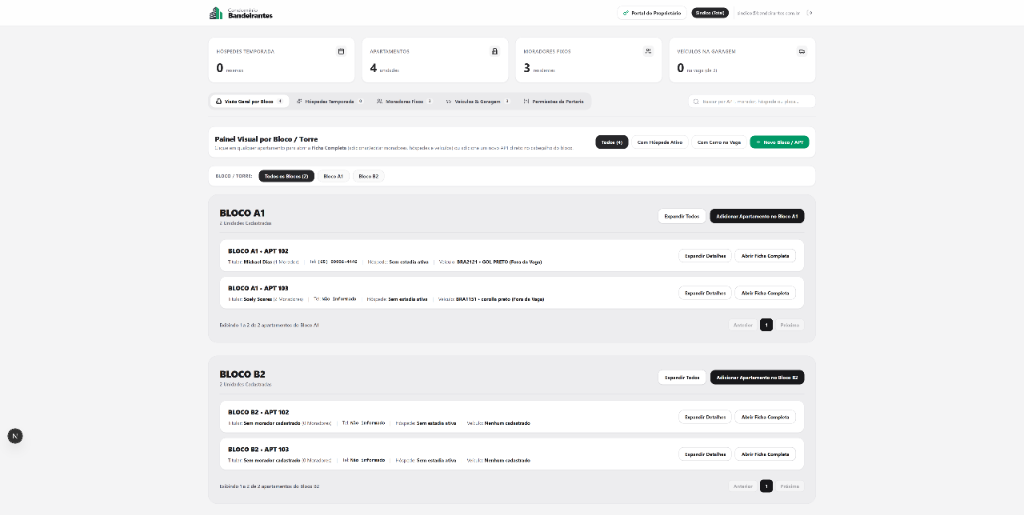
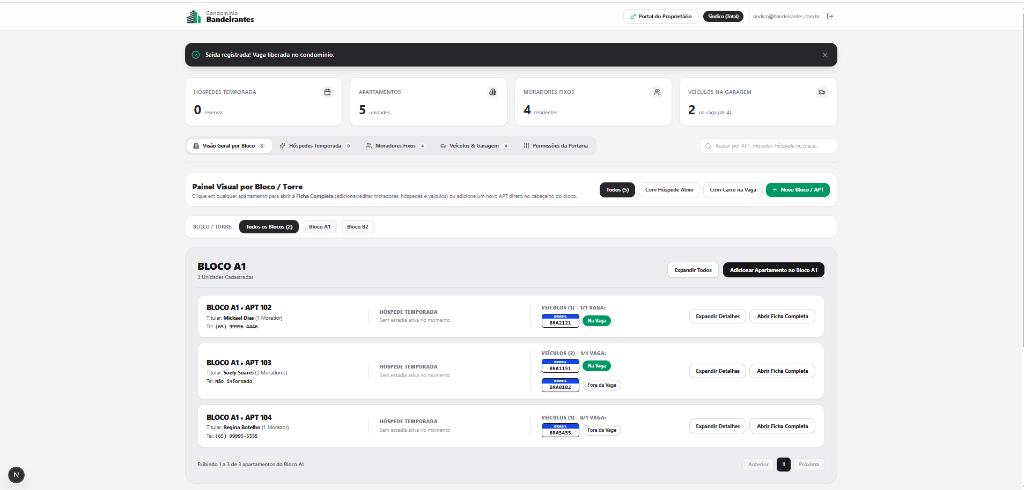
feat: adiciona telas do painel Condo Access nos estados compacto e expandido

diff --git a/js/main.js b/js/main.js
@@ -237,7 +237,11 @@ const projectGalleries = {
     slides: [
       {
         src: 'assets/project_condo_access.png',
-        caption: 'Painel Principal de Gestão & Cadastro - Visão Geral de Hóspedes Temporada, Unidades por Bloco, Moradores e Veículos'
+        caption: 'Painel Principal (Visão Compacta) - Resumo por Bloco e Apartamento com Titular, Hóspede e Placas Mercosul na Garagem'
+      },
+      {
+        src: 'assets/project_condo_expandido.png',
+        caption: 'Painel Principal (Visão Expandida) - Detalhamento Completo de Moradores Fixos, Hóspedes de Temporada e Controle de Vagas'
       },
       {
         src: 'assets/project_condo_proprietario.png',

diff --git a/index.html b/index.html
@@ -590,7 +590,7 @@
                 <span>Ver Telas em Alta Resolução</span>
               </div>
               <span class="project-badge-cat">Open-Source • Em Construção</span>
-              <span class="project-photo-count"><i class="fa-solid fa-images"></i> 3 Telas</span>
+              <span class="project-photo-count"><i class="fa-solid fa-images"></i> 4 Telas</span>
             </div>
             <div class="project-content">
               <h3 class="project-title">Condo Access - Portaria &amp; Hóspedes (Airbnb)</h3>
